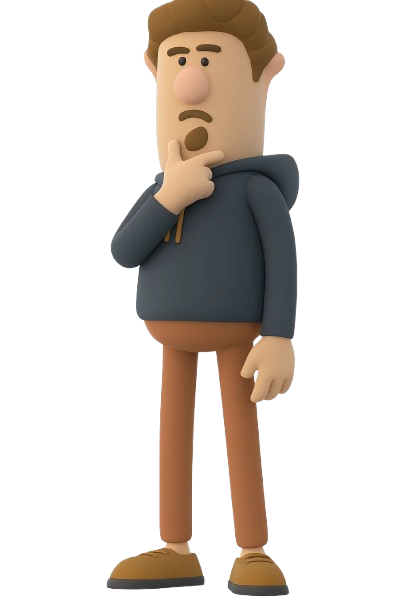
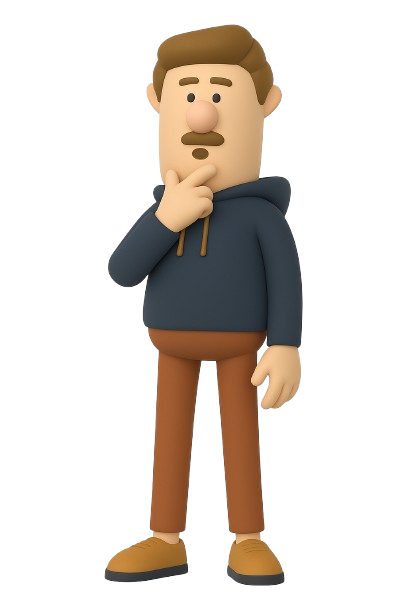
updated mascot on ptod page

Changed region(s): [[0.2353, 0.0, 0.7647, 0.9935]]

diff --git a/src/pages/potd.tsx b/src/pages/potd.tsx
@@ -164,10 +164,10 @@ useEffect(() => {
   return (
     <div className={styles.pageWrapper}>
       <Image
-        src="/images/thinking.svg"
+        src="/images/think.png"
         alt="Mascot thinking"
-        width={600}
-        height={600}
+        width={400}
+        height={400}
         className={styles.mascot}
       />
       <div className={styles.container}>

diff --git a/src/styles/POTDpage.module.css b/src/styles/POTDpage.module.css
@@ -35,8 +35,8 @@
 /* --- Mascot (Absolutely Positioned) --- */
 .mascot {
   position: absolute;
-  top: 25px;
-  right:140px;
+  top: 10px;
+  right:-15px;
   width: 200px;
   height: auto;
   object-fit: contain;
